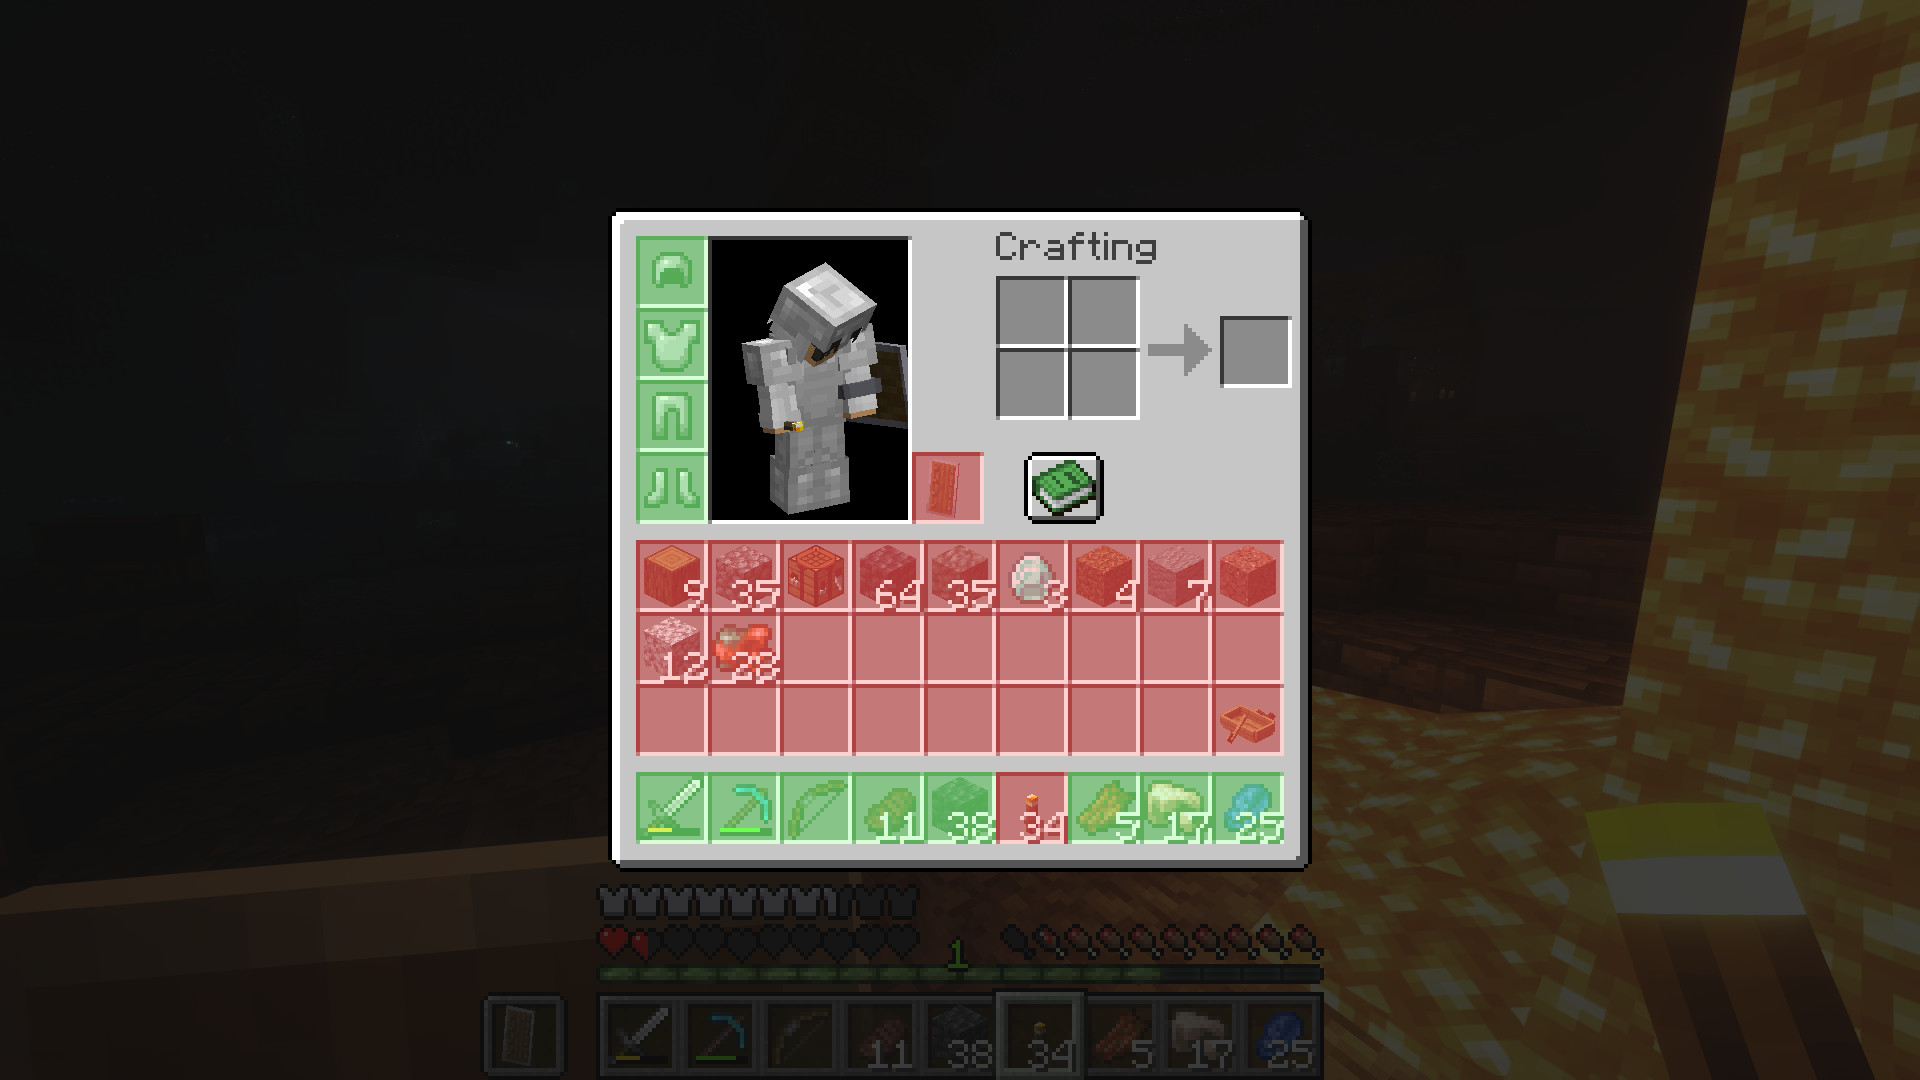
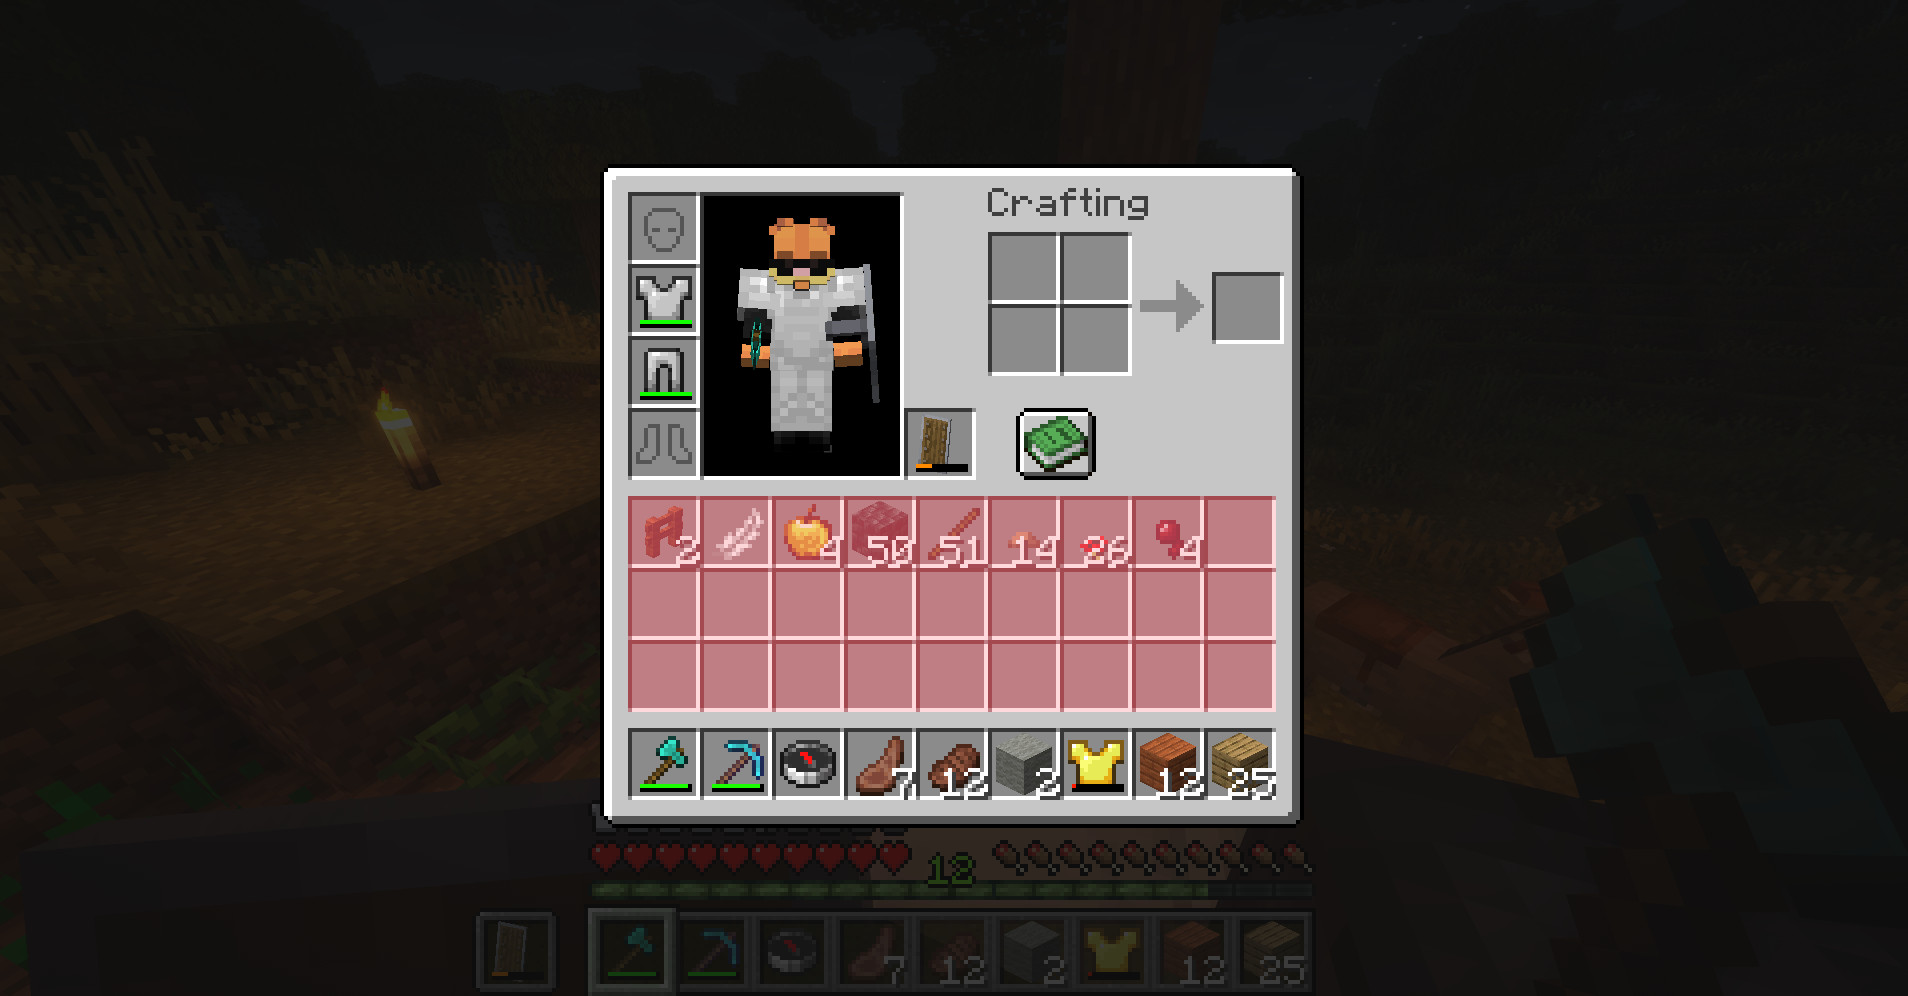
update keep inventory rules on the wiki

diff --git a/wiki/contents/inne.md b/wiki/contents/inne.md
@@ -20,9 +20,9 @@ Mniejsze zmiany i usprawnienia, które nie potrzebują osobnej strony.
   ![Ognisko](assets/img/campfire.jpeg)  
 
 - **Śmierć**  
-  Po śmierci zachowane zostają tylko przedmioty z paska szybkiego dostępu i założona zbroja. Cała reszta ekwipunku, w tym przedmioty trzymane w obu rękach, wypada.  
+  Po śmierci zachowane zostają tylko przedmioty z paska szybkiego dostępu i założona zbroja. Cała reszta ekwipunku wypada na ziemię.
   ![Keep Inventory](assets/img/keep_inventory.jpeg)  
-  <sup>Kolorem zielonym oznaczone zostały "bezpieczne" przedmioty.</sup>
+  <sup>Kolorem czerwonym oznaczone zostały przedmioty, które wypadną po śmierci.</sup>
 
 - **Kompas**  
   Kompas pokazuje pozycję podczas gdy jest trzymany w ręce. Ekran debugowania (F3) nie pokazuje koordynatów.  
